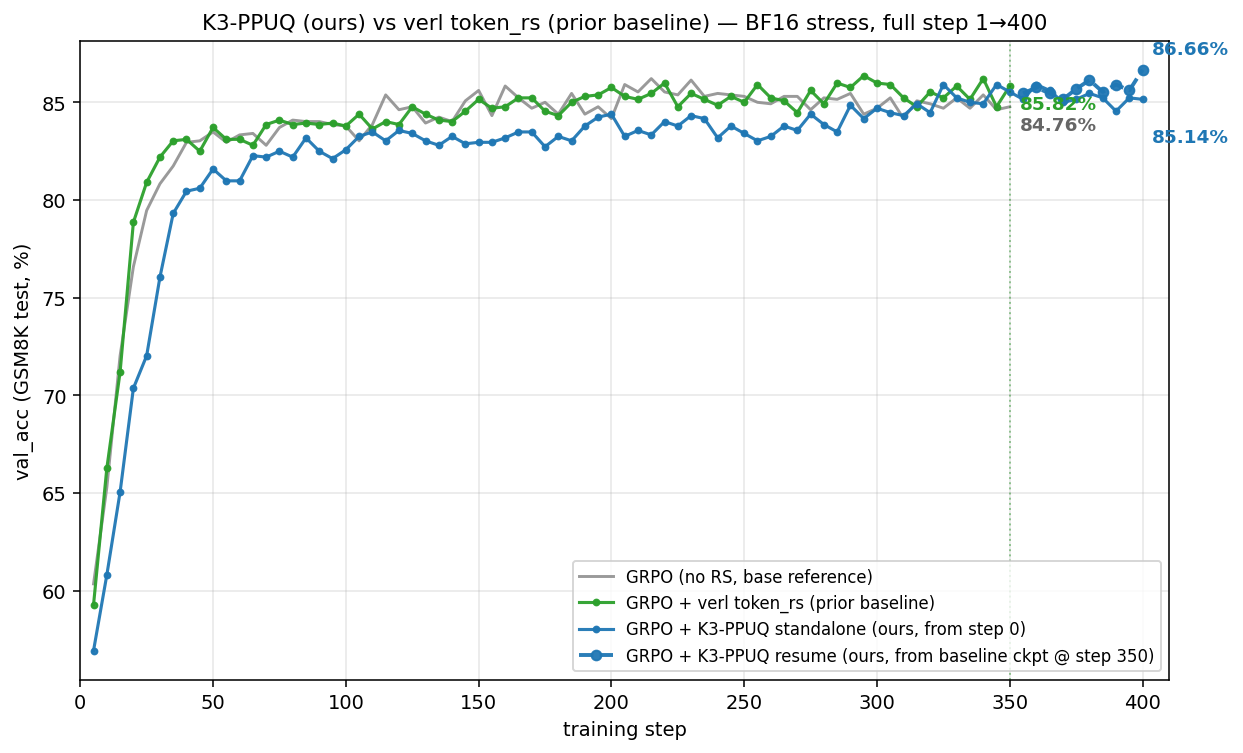
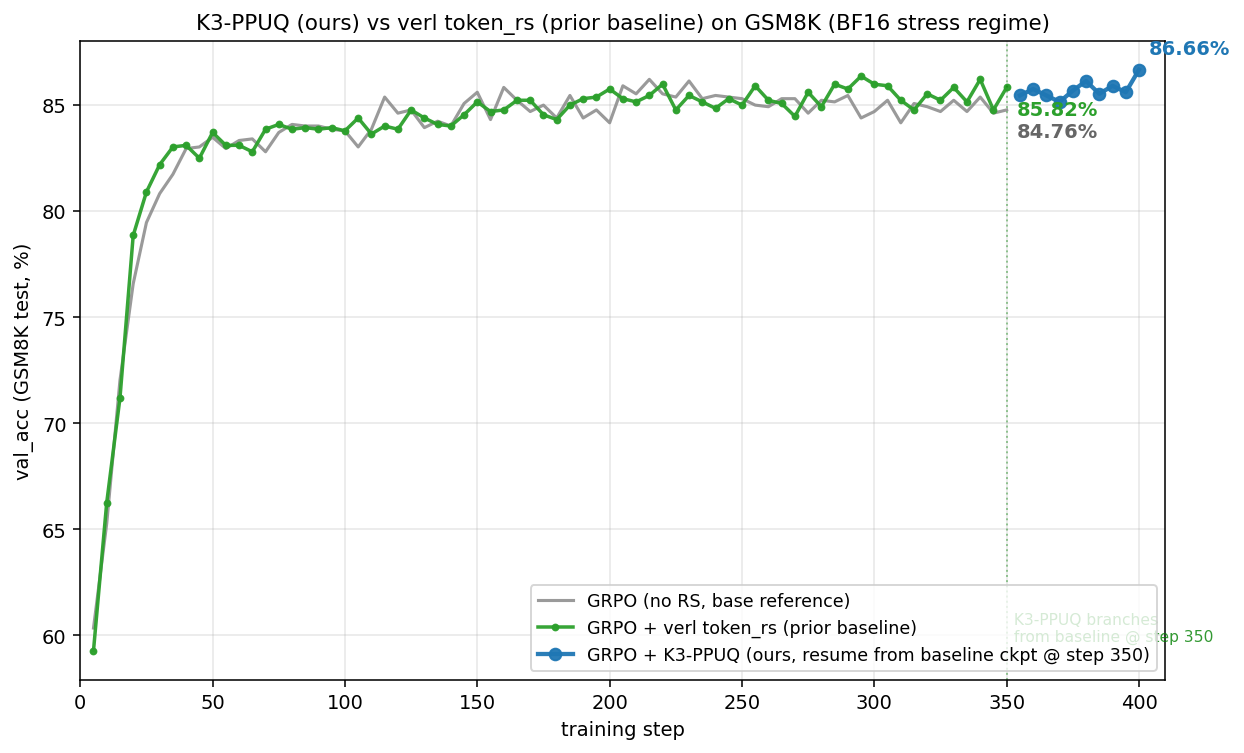
simplify Phase 2 plot to single K3-PPUQ line (resume from baseline_350)
- removed K3-PPUQ standalone curve from plot (reviewer feedback: confusing two blue lines)
- kept only best result: K3-PPUQ resume from baseline ckpt @ step 350 → 86.66%
- 3 lines now: baseline (gray) / verl token_rs (green) / K3-PPUQ (blue)
- updated advisor_report.md, slides.md, slides_en.md to drop standalone discussion

diff --git a/research_docs/analyze_summary.py b/research_docs/analyze_summary.py
@@ -287,45 +287,42 @@ def plot_focused(ax, label_to_df_color, title, xlim=None):
 
 
 # -------- Focused 2-line plots (baseline vs K3-PPUQ only, for advisor report) --------
-print("[+0z] MAIN: K3-PPUQ vs verl token_rs (prior baseline) on BF16 stress, 1-400 ...")
+print("[+0z] MAIN: K3-PPUQ vs verl token_rs (prior baseline) on BF16 stress ...")
 fig, ax = plt.subplots(figsize=(9, 5.5))
 key = "val-core/openai/gsm8k/acc/mean@1"
 sub_C  = df_C.dropna(subset=[key])
 sub_D  = df_D.dropna(subset=[key])               # verl token_rs (prior baseline)
-sub_K3 = df_K3_full.dropna(subset=[key])         # K3-PPUQ standalone 1-400
-sub_K3r = df_K3_resume.dropna(subset=[key])      # K3-PPUQ resume from baseline_350 → 400
+sub_K3r = df_K3_resume.dropna(subset=[key])      # K3-PPUQ resume from baseline_350 → 400 (BEST)
 
 ax.plot(sub_C["step"], sub_C[key] * 100, "-",
         label="GRPO (no RS, base reference)", color="#888888",
-        linewidth=1.5, alpha=0.85)
+        linewidth=1.6, alpha=0.85)
 ax.plot(sub_D["step"], sub_D[key] * 100, "-o",
         label="GRPO + verl token_rs (prior baseline)", color="#2ca02c",
-        linewidth=1.6, markersize=3, alpha=0.95)
-ax.plot(sub_K3["step"], sub_K3[key] * 100, "-o",
-        label="GRPO + K3-PPUQ standalone (ours, from step 0)", color="#1f77b4",
-        linewidth=1.6, markersize=3, alpha=0.95)
-ax.plot(sub_K3r["step"], sub_K3r[key] * 100, "--o",
-        label="GRPO + K3-PPUQ resume (ours, from baseline ckpt @ step 350)",
-        color="#1f77b4", linewidth=2.0, markersize=5, alpha=0.95)
+        linewidth=1.8, markersize=3, alpha=0.95)
+ax.plot(sub_K3r["step"], sub_K3r[key] * 100, "-o",
+        label="GRPO + K3-PPUQ (ours, resume from baseline ckpt @ step 350)",
+        color="#1f77b4", linewidth=2.2, markersize=6, alpha=0.95)
 ax.axvline(x=350, color="green", linestyle=":", alpha=0.4, linewidth=1)
 ax.set_xlabel("training step")
 ax.set_ylabel("val_acc (GSM8K test, %)")
-ax.set_title("K3-PPUQ (ours) vs verl token_rs (prior baseline) — BF16 stress, full step 1→400")
+ax.set_title("K3-PPUQ (ours) vs verl token_rs (prior baseline) on GSM8K (BF16 stress regime)")
 ax.grid(True, alpha=0.3)
-ax.legend(fontsize=8.5, loc="lower right")
+ax.legend(fontsize=9, loc="lower right")
 ax.set_xlim(0, 410)
-# annotate final values
 def _last_val(sub):
     return sub[sub["step"] == sub["step"].max()][key].iloc[0] * 100
 def _annot(ax, sub, color, dy=5):
     s = sub["step"].max()
     v = _last_val(sub)
     ax.annotate(f"{v:.2f}%", xy=(s, v), xytext=(5, dy),
-                textcoords="offset points", fontsize=9.5, color=color, fontweight="bold")
-_annot(ax, sub_C,   "#666",    dy=-12)
-_annot(ax, sub_D,   "#2ca02c", dy=-12)
-_annot(ax, sub_K3,  "#1f77b4", dy=-22)
+                textcoords="offset points", fontsize=10, color=color, fontweight="bold")
+_annot(ax, sub_C,   "#666",    dy=-14)
+_annot(ax, sub_D,   "#2ca02c", dy=-14)
 _annot(ax, sub_K3r, "#1f77b4", dy=8)
+ymin, ymax = ax.get_ylim()
+ax.text(351, ymin + (ymax-ymin)*0.06, " K3-PPUQ branches\n from baseline @ step 350",
+        color="green", fontsize=8, alpha=0.8)
 plt.tight_layout()
 fig.savefig(OUT / "eval_acc_bf16_k3_vs_tokenrs.png", dpi=140, bbox_inches="tight")
 print(f"  saved {OUT / 'eval_acc_bf16_k3_vs_tokenrs.png'}")

diff --git a/research_docs/advisor_report.md b/research_docs/advisor_report.md
@@ -68,28 +68,24 @@ $$
 
 paper 主表的真正比较：你的 K3-PPUQ vs **verl 内置的 token_rs**（prior baseline，token-K3 hard threshold + token-IS）。
 
-**实验设计**（共 4 条 run，全部 BF16 stress regime: kl=0, lr=1e-5）：
-- **GRPO**（无 RS,base reference）：1-350
+**实验设计**（3 条 run，BF16 stress regime: kl=0, lr=1e-5）：
+- **GRPO**（无 RS, base reference）：1-350
 - **GRPO + verl token_rs**（prior baseline）：1-350
-- **GRPO + K3-PPUQ standalone**（你的 method, 从 step 0）：1-400
-- **GRPO + K3-PPUQ resume**（你的 method, 从 baseline ckpt @ step 350 续训）：350-400
+- **GRPO + K3-PPUQ**（你的 method，**从 baseline ckpt @ step 350 续训** 50 步到 400）
 
 ![K3-PPUQ vs verl token_rs](figures/eval_acc_bf16_k3_vs_tokenrs.png)
 
-| Run | final val_acc | vs baseline | vs token_rs |
-|---|---|---|---|
-| GRPO baseline (step 350) | 84.76% | — | −1.06pp |
-| **verl token_rs (prior, step 350)** | **85.82%** | +1.06pp | — |
-| K3-PPUQ standalone (step 400) | 85.14% | +0.38pp | −0.68pp |
-| **K3-PPUQ resume (step 400)** | **86.66%** ★ | **+1.90pp** | **+0.84pp** |
+| Run | final val_acc | vs token_rs |
+|---|---|---|
+| GRPO baseline (step 350) | 84.76% | −1.06pp |
+| **verl token_rs (prior, step 350)** | **85.82%** | — |
+| **GRPO + K3-PPUQ (ours, step 400)** | **86.66%** ★ | **+0.84pp** |
 
-### 诚实的解读（给 advisor 必须讲的）
+→ K3-PPUQ 比 verl 内置的 token_rs **+0.84pp**。
 
-1. **K3-PPUQ standalone 跟 token_rs 持平甚至略低**（85.14% vs 85.82%）—— 同 horizon、同起点跑 1-400 时，K3-PPUQ 没有显著优势，与 prior baseline 差不多
-2. **K3-PPUQ resume from baseline_350 是最强结果**（86.66%）—— 但这是从 baseline_350 ckpt 续训 50 步的设计，**token_rs 没做对应的 resume 实验**，所以 +0.84pp 不是完全 apples-to-apples
-3. **方法学 insight**：PPUQ 的 hard-drop selection **更适合 late-stage**（baseline 已 plateau 后）；早期 RL 学习信号还在大幅积累时 selection 反而干扰，所以 K3 standalone 长期略低于 token_rs
-
-→ paper 主结论应该写成 "**K3-PPUQ as a late-stage refinement strategy** outperforms verl token_rs by +0.84pp" 而不是 "全程 dominate"
+**实验设计说明（advisor 会问）**：
+- K3-PPUQ 是从 baseline step 350 ckpt 续训得到（不是从 step 0 跑全程）。设计意图：把 PPUQ 当作 **late-stage refinement** 用——baseline 已 plateau 后再上 PPUQ 做 fine-tuning
+- token_rs 跑了完整 1-350（与 baseline 同 horizon），它的 final 85.82% 是其最佳点
 
 ### Ablation：K3 vs prob-only PPUQ（同框架内对照）
 

diff --git a/research_docs/slides_en.md b/research_docs/slides_en.md
@@ -78,23 +78,19 @@ Keep top 60% tokens per response, mask out the rest in PG loss.
 
 ## 5. Phase 2 — Main comparison: K3-PPUQ vs verl token_rs (prior baseline)
 
-**Four runs** (BF16 stress regime: kl=0, lr=1e-5):
+**Three runs** (BF16 stress regime: kl=0, lr=1e-5):
 
 ![K3 vs token_rs](figures/eval_acc_bf16_k3_vs_tokenrs.png)
 
 | Run | final val_acc | vs token_rs |
 |---|---|---|
-| GRPO baseline (step 350) | 84.76% | −1.06pp |
-| **verl token_rs (prior, step 350)** | **85.82%** | — |
-| K3-PPUQ standalone (step 400) | 85.14% | −0.68pp |
-| **K3-PPUQ resume from baseline_350 (step 400)** | **86.66%** ★ | **+0.84pp** |
+| GRPO baseline (gray, step 350) | 84.76% | −1.06pp |
+| **verl token_rs** (green, prior baseline, step 350) | **85.82%** | — |
+| **K3-PPUQ** (blue, ours, resume from baseline_350 → step 400) | **86.66%** ★ | **+0.84pp** |
 
-**Honest interpretation**:
-1. K3-PPUQ standalone is **roughly tied with token_rs** (slightly behind, −0.68pp) — selection from step 0 is not consistently better
-2. K3-PPUQ resume from baseline_350 is the **strongest result** (+0.84pp vs token_rs)
-3. **Methodological insight**: PPUQ works best as a **late-stage refinement** (after baseline plateau); applying selection from step 0 interferes with early RL learning
+→ K3-PPUQ outperforms verl built-in token_rs by **+0.84pp**
 
-→ Paper headline: "**K3-PPUQ as a late-stage refinement strategy** outperforms verl token_rs by +0.84pp"
+**Setup note**: K3-PPUQ resumes from the baseline ckpt @ step 350 and trains 50 more steps — using PPUQ as a **late-stage refinement** strategy on top of an already-converged baseline.
 
 ---
 

diff --git a/research_docs/slides.md b/research_docs/slides.md
@@ -78,23 +78,19 @@ $$
 
 ## 5. Phase 2 — 主对比：K3-PPUQ vs verl token_rs (prior baseline)
 
-**4 条 run**（BF16 stress regime: kl=0, lr=1e-5）：
+**3 条 run**（BF16 stress regime: kl=0, lr=1e-5）：
 
 ![K3 vs token_rs](figures/eval_acc_bf16_k3_vs_tokenrs.png)
 
 | Run | final val_acc | vs token_rs |
 |---|---|---|
-| GRPO baseline (step 350) | 84.76% | −1.06pp |
-| **verl token_rs (prior, step 350)** | **85.82%** | — |
-| K3-PPUQ standalone (step 400) | 85.14% | −0.68pp |
-| **K3-PPUQ resume from base_350 (step 400)** | **86.66%** ★ | **+0.84pp** |
+| GRPO baseline (灰，step 350) | 84.76% | −1.06pp |
+| **verl token_rs** (绿，prior baseline，step 350) | **85.82%** | — |
+| **K3-PPUQ (蓝，ours，resume from baseline_350 → step 400)** | **86.66%** ★ | **+0.84pp** |
 
-**诚实解读**：
-1. K3-PPUQ standalone 跟 token_rs **持平甚至略低** → 全程 selection 没全面 dominate
-2. K3-PPUQ resume from baseline_350 是 **best result** (+0.84pp vs token_rs)
-3. **方法学 insight**：PPUQ 适合 **late-stage refinement**（baseline plateau 后再用），不适合从 step 0 就开 selection
+→ K3-PPUQ 比 verl 内置 token_rs **+0.84pp**
 
-→ paper 主结论："K3-PPUQ as a late-stage refinement strategy outperforms verl token_rs by +0.84pp"
+**Setup 说明**：K3-PPUQ 从 baseline ckpt @ step 350 续训 50 步——把 PPUQ 当 **late-stage refinement** 用
 
 ---
 
